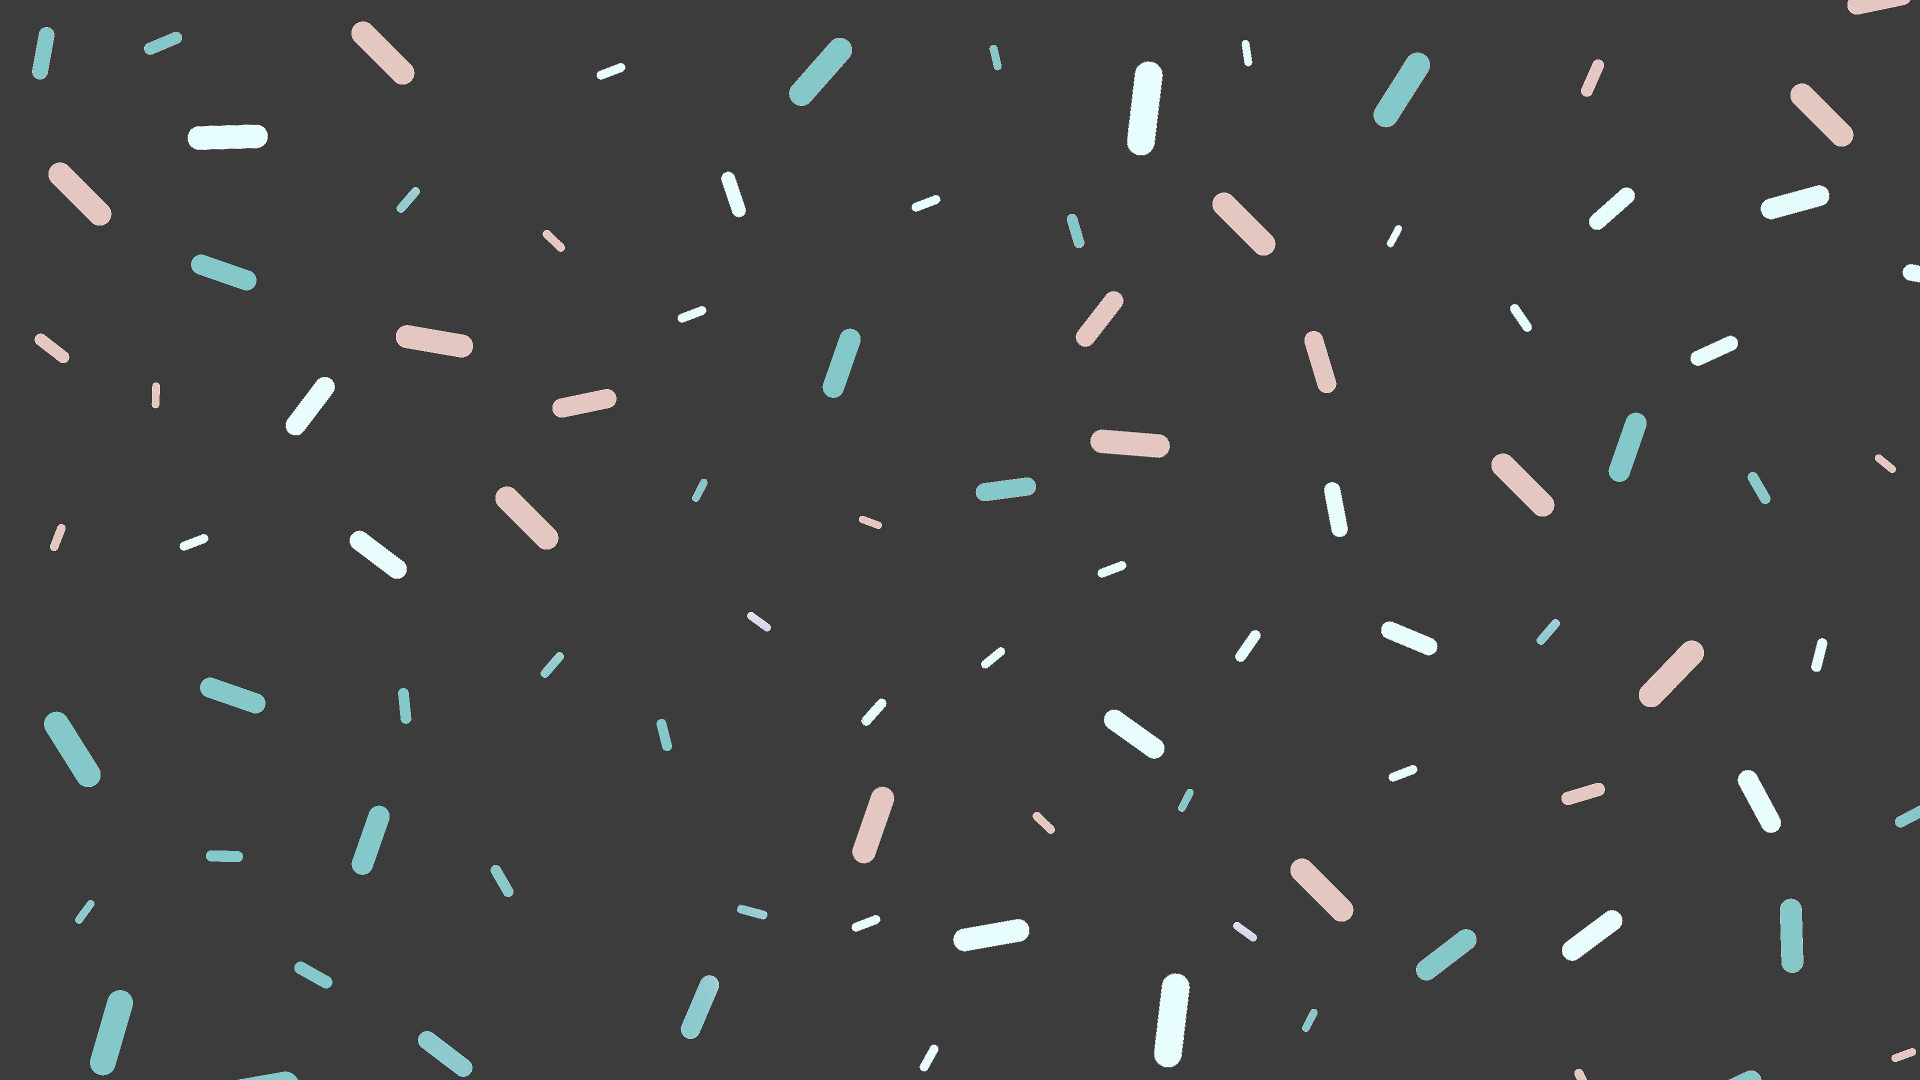
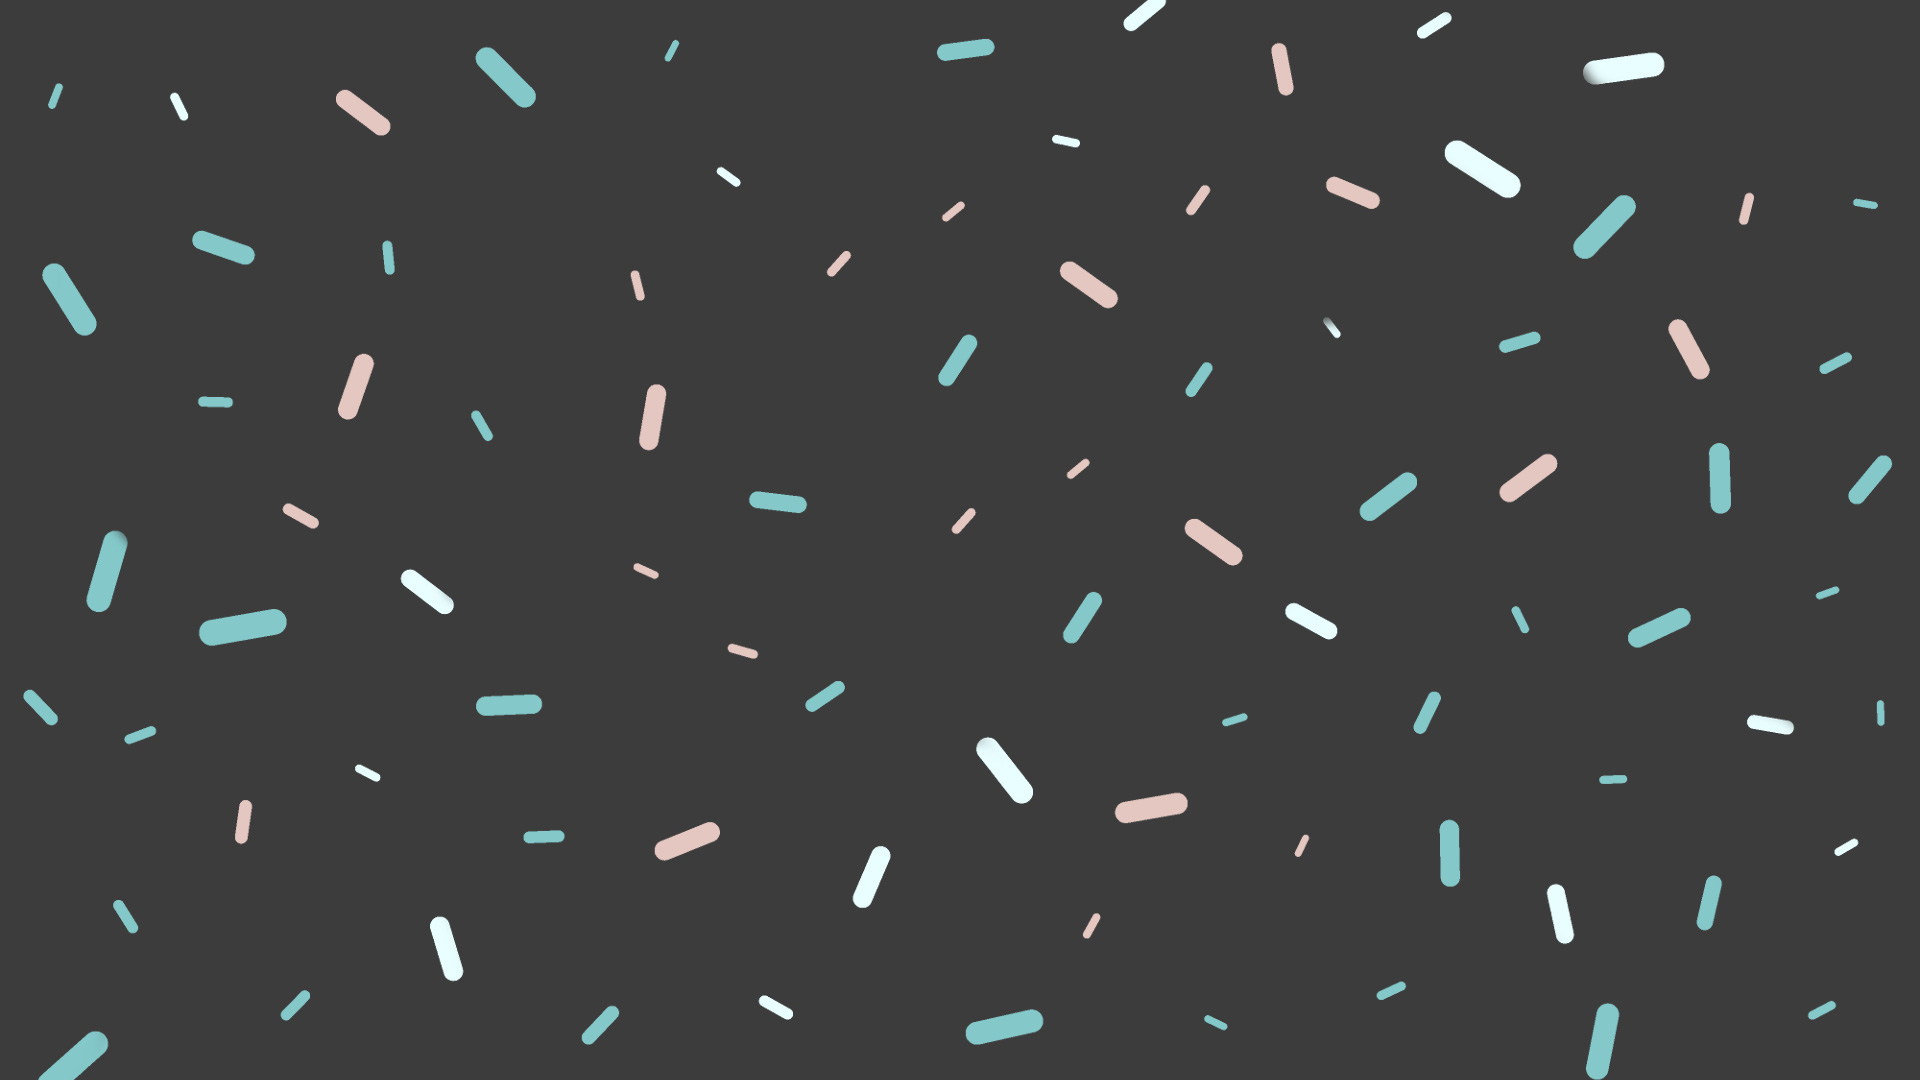
Changed colorways and updated bg images

diff --git a/Slideshow-Creator/src/viewer/FileSelectExplorer.java b/Slideshow-Creator/src/viewer/FileSelectExplorer.java
@@ -57,7 +57,7 @@ public class FileSelectExplorer extends Scene {
 	private ImageIcon highlightedSelectExisting;
 	
 	/** Create custom color */
-	private Color dark_gray = new Color(30, 30, 30);
+	private Color dark_gray = new Color(71, 70, 70);
 
 	/**
 	 * DirectoryExplorer() - sets up directory explorer with GUI stuff
